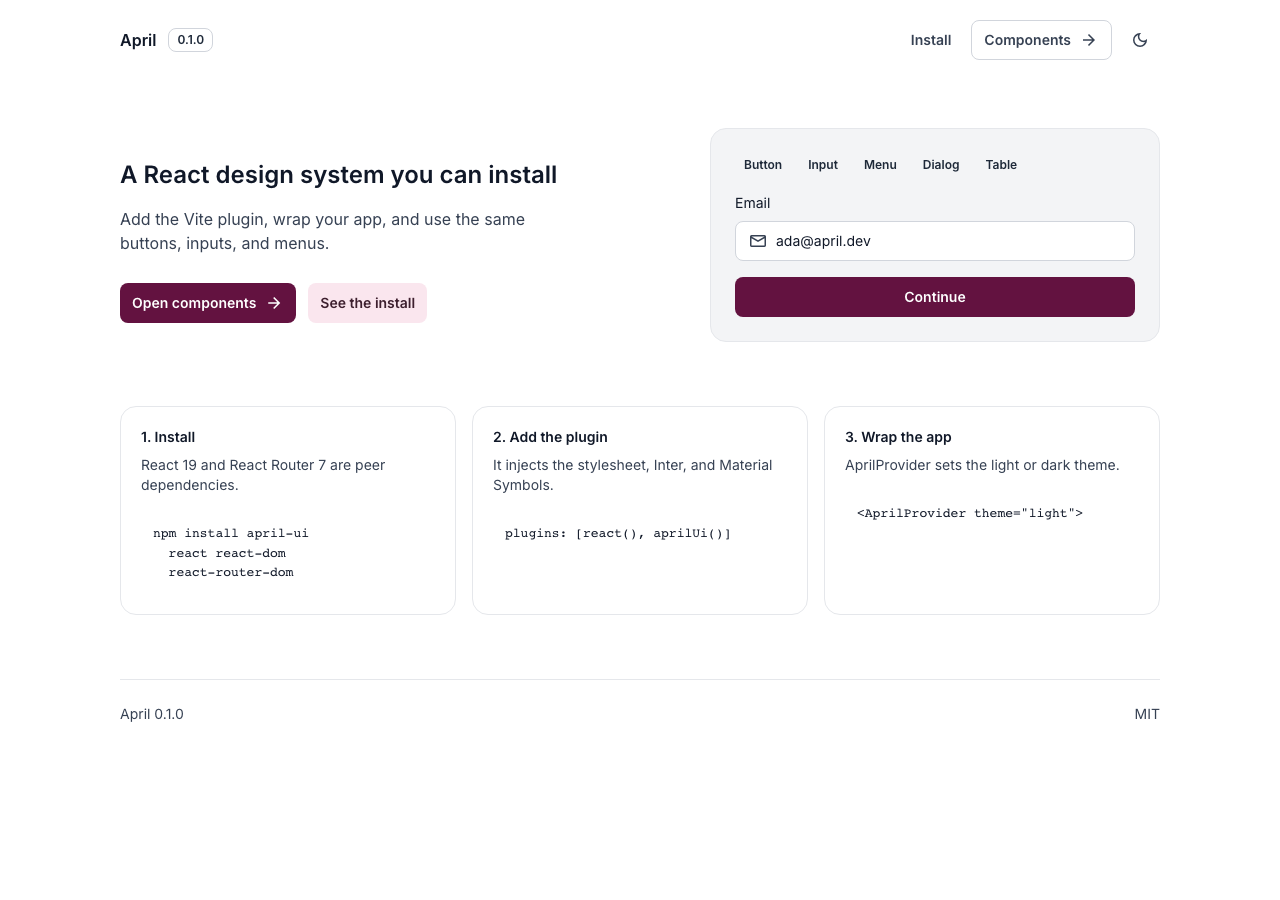
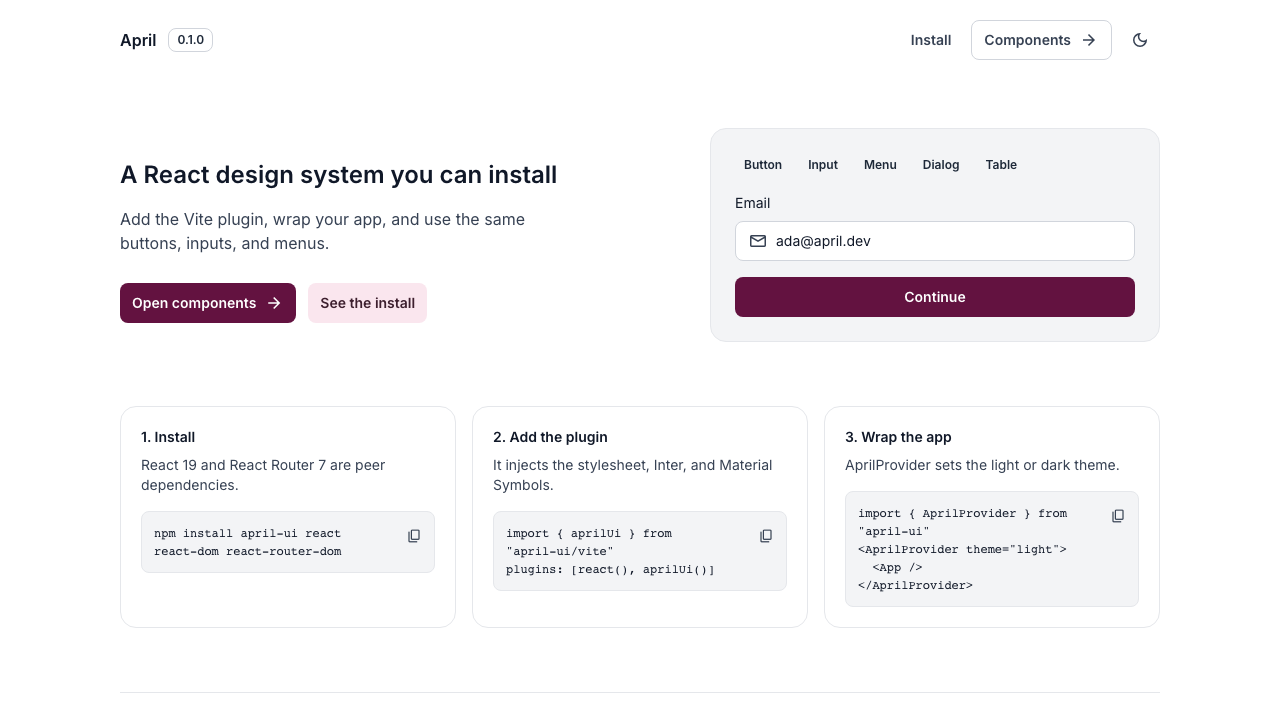
update

diff --git a/site/src/App.jsx b/site/src/App.jsx
@@ -5,12 +5,67 @@ const componentsHref = import.meta.env.DEV ? "http://localhost:6006" : "/compone
 
 const pieces = ["Button", "Input", "Menu", "Dialog", "Table"];
 
+const installCommand = "npm install april-ui react react-dom react-router-dom";
+const pluginSnippet = `import { aprilUi } from "april-ui/vite"
+plugins: [react(), aprilUi()]`;
+const providerSnippet = `import { AprilProvider } from "april-ui"
+<AprilProvider theme="light">
+  <App />
+</AprilProvider>`;
+
+function CodeBlock({ value }) {
+  const [copied, setCopied] = useState(false);
+
+  async function copy() {
+    try {
+      await navigator.clipboard.writeText(value);
+    } catch {
+      const area = document.createElement("textarea");
+      area.value = value;
+      area.setAttribute("readonly", "");
+      area.style.position = "fixed";
+      area.style.left = "-9999px";
+      document.body.append(area);
+      area.select();
+      document.execCommand("copy");
+      area.remove();
+    }
+    setCopied(true);
+    window.setTimeout(() => setCopied(false), 1600);
+  }
+
+  const parts = value.split(/(\s+)/);
+
+  return (
+    <div className="landing__code">
+      <pre>
+        <code>
+          {parts.map((part, index) =>
+            /\s/.test(part) ? part : (
+              <span key={index} className="landing__token">
+                {part}
+              </span>
+            ),
+          )}
+        </code>
+      </pre>
+      <IconButton
+        variant="ghost"
+        size="sm"
+        icon={copied ? "check" : "content_copy"}
+        ariaLabel={copied ? "Copied" : "Copy"}
+        onClick={copy}
+      />
+    </div>
+  );
+}
+
 function ActionLink({ href, label, variant = "primary", trailing = false, onClick }) {
   return (
     <a className={`april-btn april-btn--${variant} april-btn--md`} href={href} onClick={onClick}>
       <span className="april-btn__label">{label}</span>
       {trailing ? (
-        <span className="april-btn__icon material-symbols-outlined" aria-hidden="true">
+        <span className="april-btn__icon material-symbols-outlined april-icon" aria-hidden="true">
           arrow_forward
         </span>
       ) : null}
@@ -105,17 +160,17 @@ export function App() {
             <article className="landing__step">
               <h2 className="april-text-style april-text-style--text-sm-semibold">1. Install</h2>
               <p className="april-text-style april-text-style--text-sm-regular">React 19 and React Router 7 are peer dependencies.</p>
-              <pre className="landing__code"><code>{`npm install april-ui\n  react react-dom\n  react-router-dom`}</code></pre>
+              <CodeBlock value={installCommand} />
             </article>
             <article className="landing__step">
               <h2 className="april-text-style april-text-style--text-sm-semibold">2. Add the plugin</h2>
               <p className="april-text-style april-text-style--text-sm-regular">It injects the stylesheet, Inter, and Material Symbols.</p>
-              <pre className="landing__code"><code>{"plugins: [react(), aprilUi()]"}</code></pre>
+              <CodeBlock value={pluginSnippet} />
             </article>
             <article className="landing__step">
               <h2 className="april-text-style april-text-style--text-sm-semibold">3. Wrap the app</h2>
               <p className="april-text-style april-text-style--text-sm-regular">AprilProvider sets the light or dark theme.</p>
-              <pre className="landing__code"><code>{`<AprilProvider theme="light">`}</code></pre>
+              <CodeBlock value={providerSnippet} />
             </article>
           </section>
         </main>

diff --git a/site/src/landing.css b/site/src/landing.css
@@ -105,6 +105,7 @@ html {
   padding: 20px;
   border: 1px solid var(--color-border-border-gray-light);
   border-radius: var(--radius-radius-lg, 12px);
+  background: var(--color-background-surface-default);
 }
 
 .landing__step p,
@@ -114,15 +115,29 @@ html {
 }
 
 .landing__code {
+  display: grid;
+  grid-template-columns: minmax(0, 1fr) auto;
+  align-items: start;
+  gap: 4px;
   margin: 8px 0 0;
-  padding: 12px;
-  overflow-x: auto;
-  white-space: pre;
+  padding: 8px 4px 8px 12px;
+  border: 1px solid var(--color-border-border-gray-light);
   border-radius: var(--radius-radius-sm, 8px);
-  background: var(--color-background-surface-default);
+  background: var(--color-background-surface-raised);
   color: var(--color-foreground-text-text-default);
-  font-size: 13px;
+}
+
+.landing__code pre {
+  margin: 4px 0;
+  overflow-x: auto;
+  white-space: pre-wrap;
+  font-family: ui-monospace, SFMono-Regular, Menlo, Consolas, monospace;
+  font-size: 12px;
   line-height: 1.5;
+}
+
+.landing__token {
+  white-space: nowrap;
 }
 
 .landing__footer {
